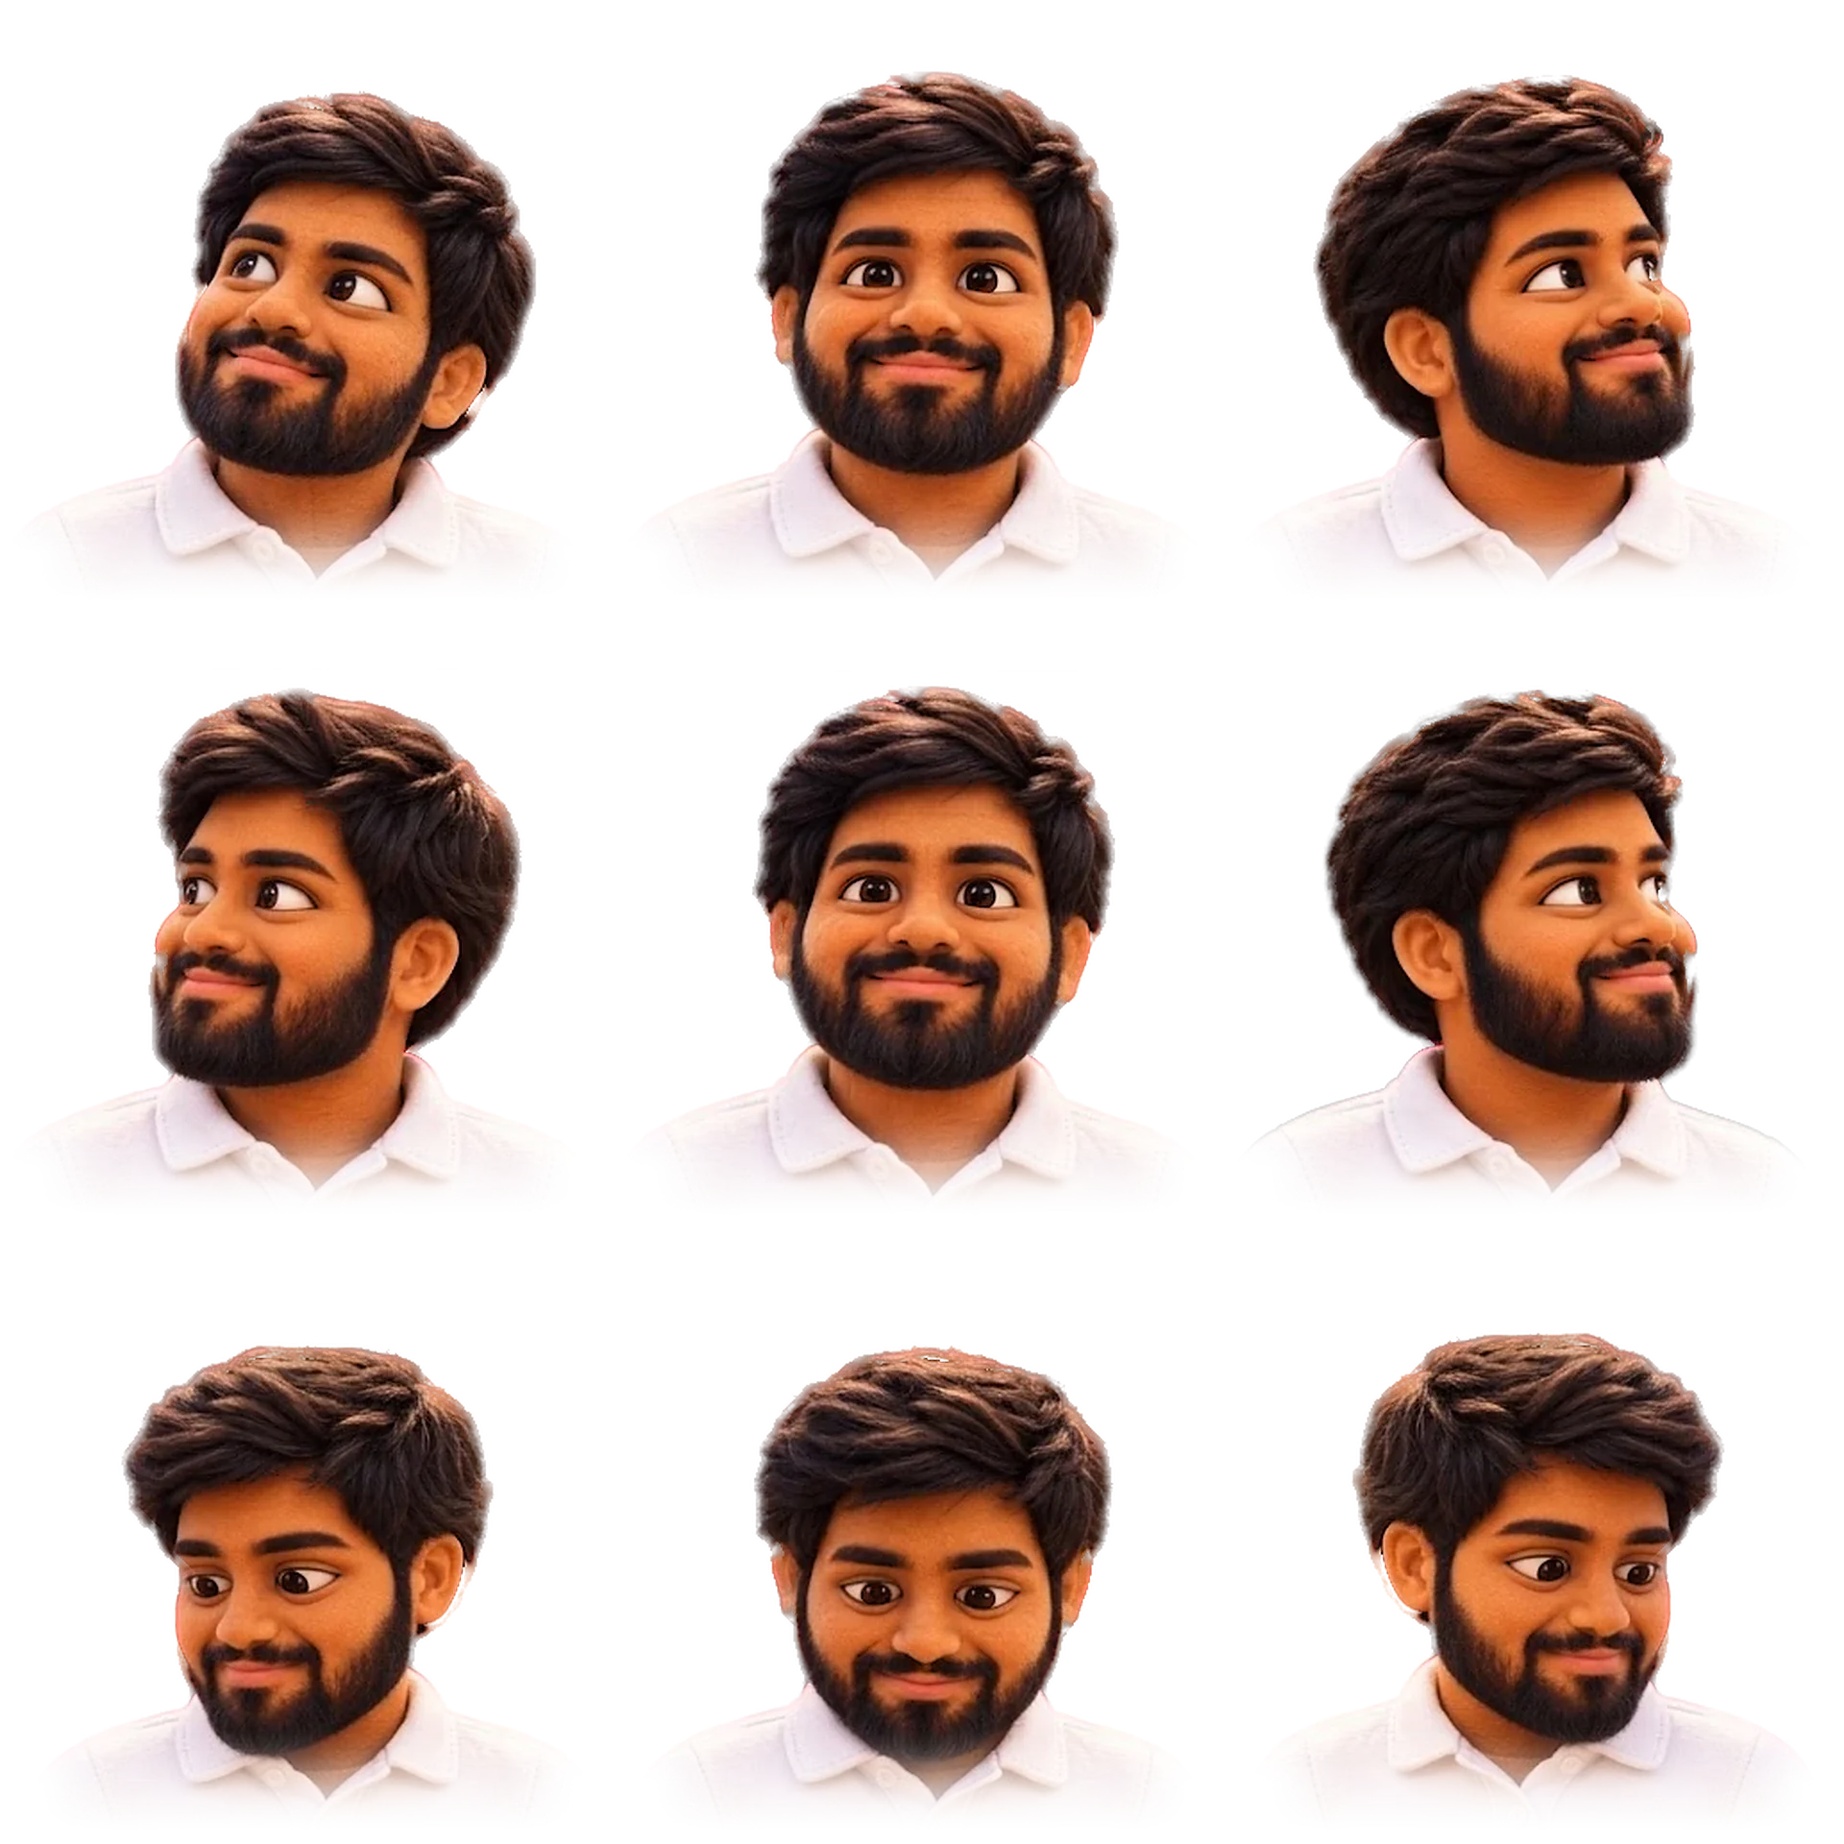
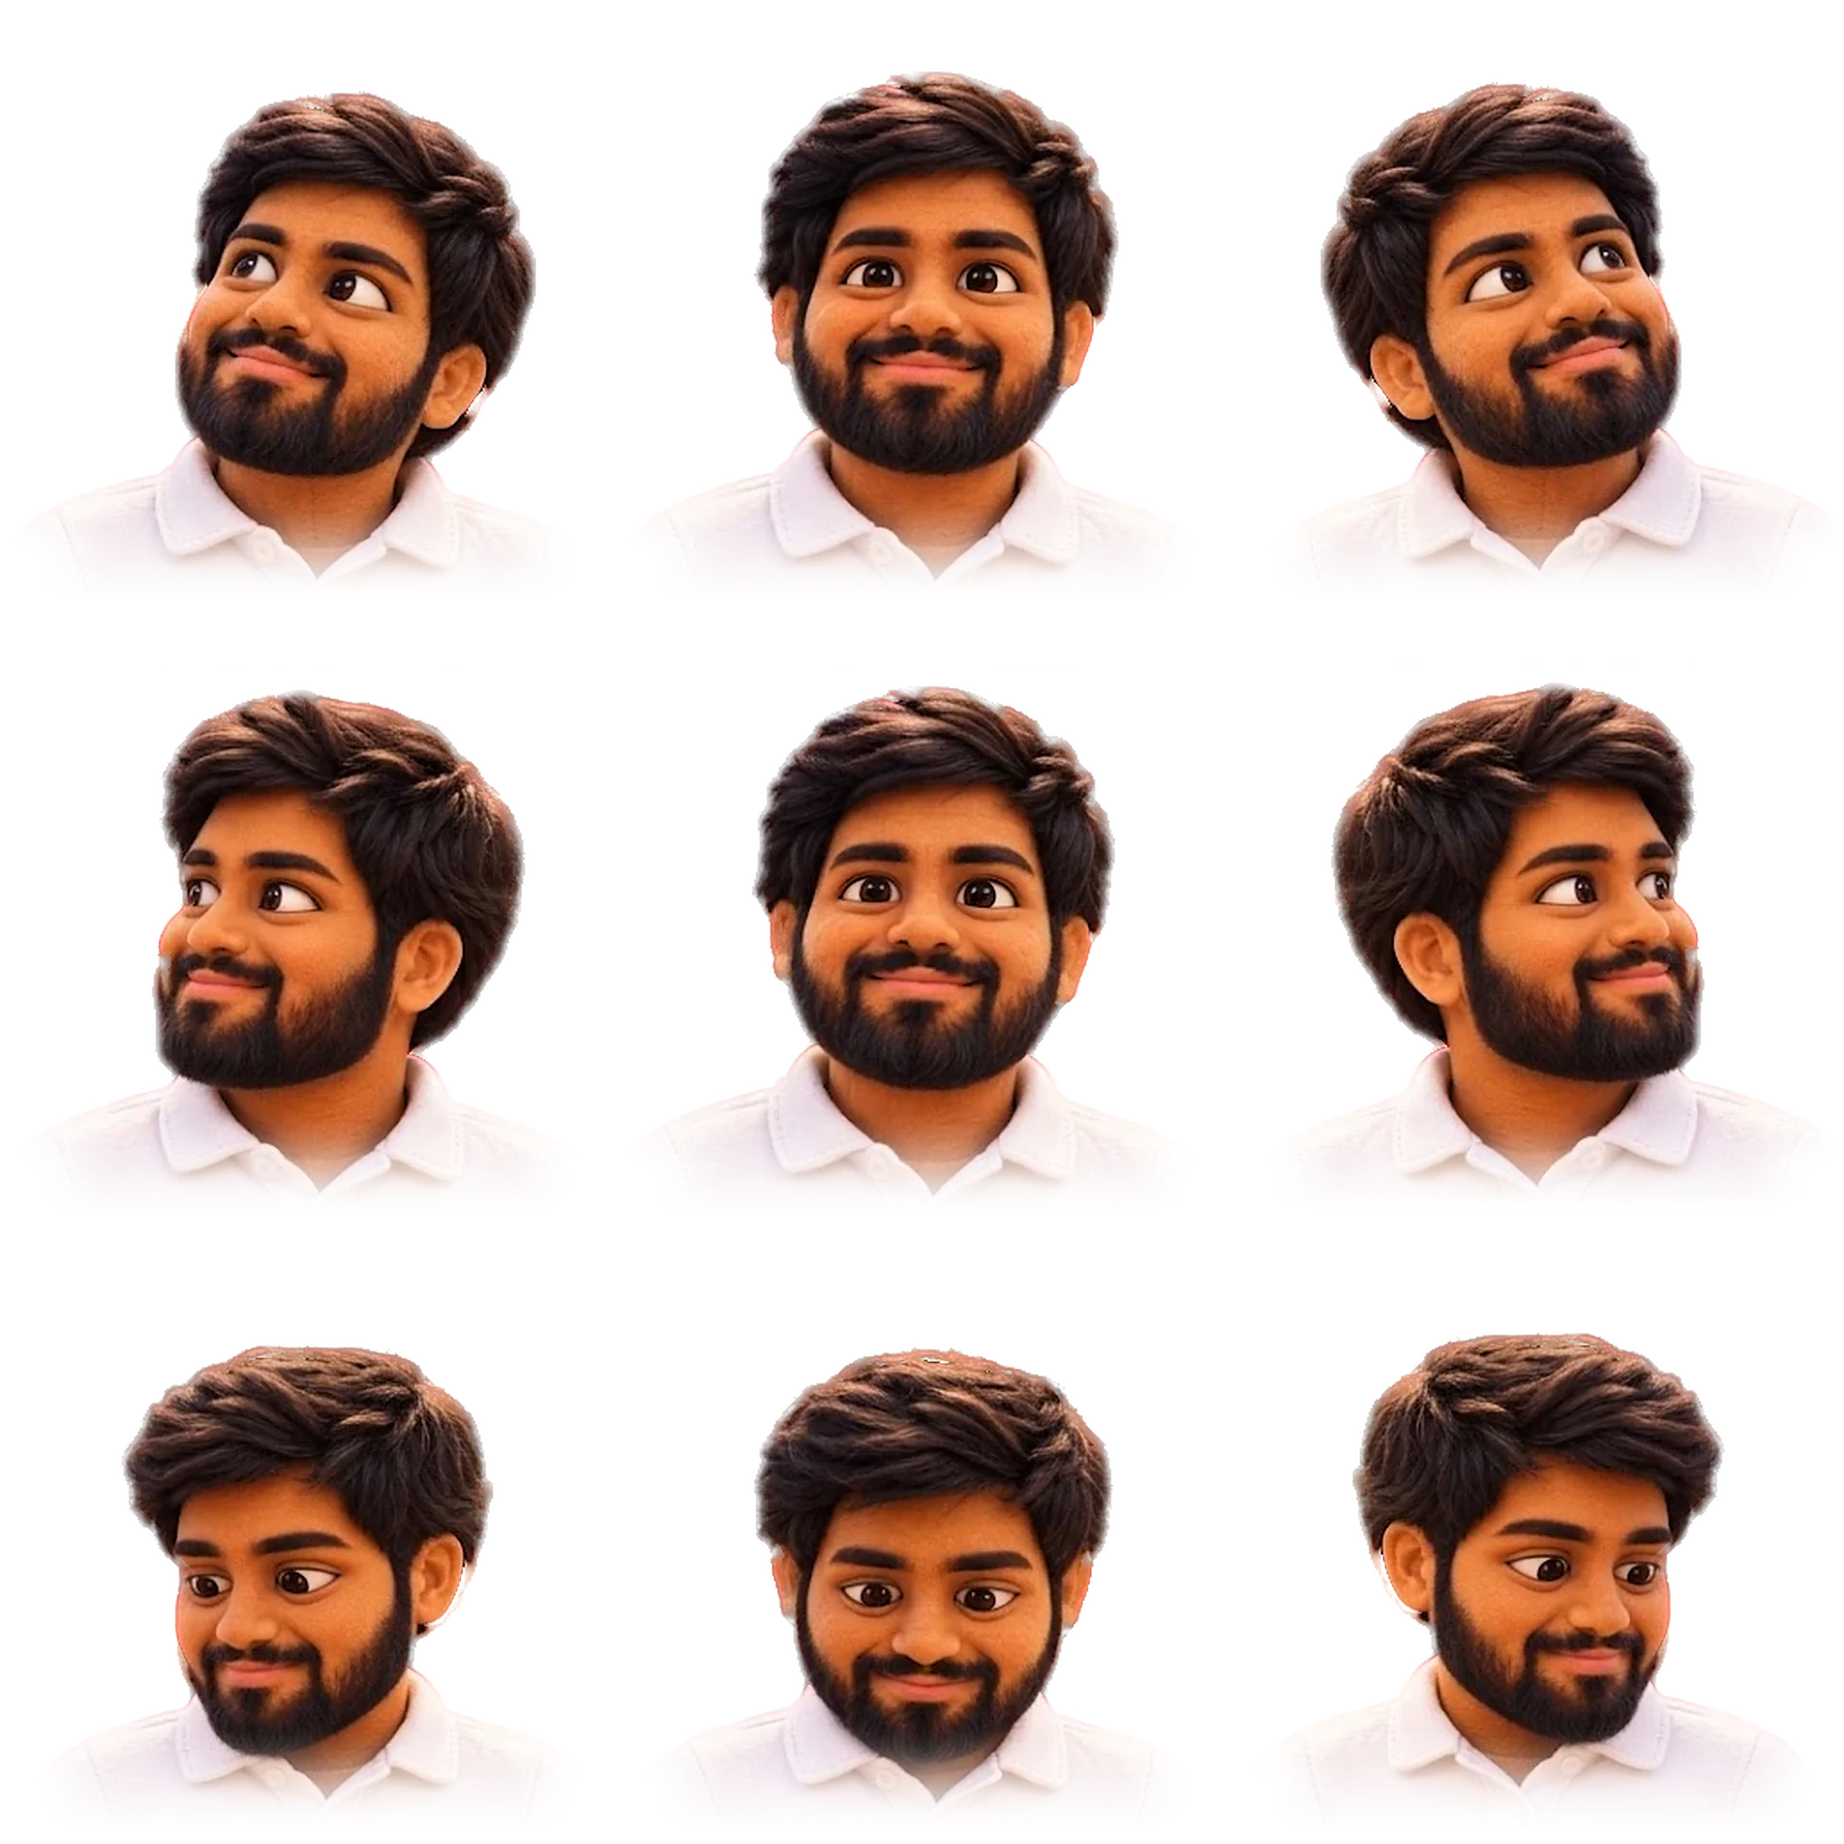
Fix defects found by the adversarial review
- Character: the right and up-right cells of the source sheet draw a second
  nose tip; they are now mirrored from the clean left-facing cells (as
  down-right already was). Registration compares only the collar band that
  stays visible, so the body does not shift when the head turns.
- Header: the single-row scrolling layout now applies up to 860px (links
  wrapped out of the 64px bar between 701 and 779px); the current link is
  styled in .tn-cta too, and scrolled into view on phones.
- Anchored sections clear the header on narrow screens (scroll-margin-top).
- Case dialog: the Back bar stays above the figure caption; meta is 2x2 on
  tablets; the Next-case arrow no longer wraps alone.
- Phone menu scrolls when taller than the screen (landscape phones), and the
  hero logo no longer shows through it.
- Hero copy clears the nav on 501-620px-tall landscape windows.
- No dangling separators in the trust bar, Work label or hero eyebrow;
  certificate IDs no longer break mid-word; PET figure label fits its box.
- Census result line reworded to say only what the case text says.

Claude-Session: https://claude.ai/code/session_01U3ktaUj7Vw44q61qy9d3f5

diff --git a/index.html b/index.html
@@ -34,7 +34,7 @@
     --font-display:'Instrument Sans Variable','Helvetica Neue',Arial,sans-serif;
     --font-accent:'Instrument Serif',Georgia,serif;
   }
-  @media(max-width:860px){:root{--section-y:var(--s5)}}
+  @media(max-width:860px){:root{--section-y:var(--s5)}main section[id]{scroll-margin-top:64px}}
   /* Gold: #D4AF37 for fills and rules on light, and for text on #2C302E only (6.36:1).
      Gold text or glyphs on light surfaces use --accent #7A5F12. */
   *{margin:0;padding:0;box-sizing:border-box}
@@ -162,14 +162,14 @@
     font-size:.9375rem;font-weight:500;color:var(--dim);padding:8px 0;transition:color .25s;
   }
   .tn-links a:hover,.tn-cta a:hover,.tn-links a:focus-visible,.tn-cta a:focus-visible{color:var(--fg)}
-  .tn-links a.current{color:var(--accent)}
+  #topnav a.current{color:var(--accent)}
   #topnav a:focus-visible{outline:2px solid var(--accent);outline-offset:-2px;border-radius:3px}
   /* Over the charcoal hero the bar docks in the hero's colours, then turns light. */
   body:not(.past-hero) #topnav{background:rgba(44,48,46,.92);border-bottom-color:rgba(250,249,246,.16);color:#FAF9F6}
   body:not(.past-hero) #topnav .tn-links a,body:not(.past-hero) #topnav .tn-cta a{color:rgba(250,249,246,.78)}
   body:not(.past-hero) #topnav a:hover,body:not(.past-hero) #topnav a.current{color:#FAF9F6}
   body:not(.past-hero) #topnav a:focus-visible{outline-color:#D4AF37}
-  @media(max-width:700px){
+  @media(max-width:860px){
     .tn-name{display:none}
     .tn-nav{width:100%;gap:14px}
     /* Sections scroll sideways; Contact and CV stay pinned and visible. */
@@ -187,7 +187,7 @@
     font-size:.875rem;font-weight:500;letter-spacing:0;color:var(--dim);
   }
   .trustbar i{font-style:normal;color:var(--accent)}
-  @media(max-width:700px){.trustbar{gap:4px 16px}.trustbar i{display:none}}
+  @media(max-width:1010px){.trustbar{gap:4px 16px}.trustbar i{display:none}}
   .numbers{padding:0 var(--gutter) var(--section-y)}
   .numbers-grid{
     display:grid;grid-template-columns:repeat(4,1fr);gap:1px;
@@ -352,7 +352,7 @@
   #detail.open{transform:none}
   /* A full-width bar, so text never scrolls visibly behind the Back button. */
   .d-back{
-    position:sticky;top:0;z-index:2;display:flex;align-items:center;cursor:pointer;
+    position:sticky;top:0;z-index:5;display:flex;align-items:center;cursor:pointer;
     width:calc(100% + 12vw);min-height:56px;margin:0 -6vw 6vh;padding:0 6vw;
     background:#FFFFFF;border:0;border-bottom:1px solid var(--line);color:inherit;
   }
@@ -367,6 +367,7 @@
     background:var(--line);border:1px solid var(--line);margin-top:34px;
   }
   .d-meta div{background:#FFFFFF;padding:13px 21px}
+  @media(min-width:600px) and (max-width:900px){.d-meta{grid-template-columns:1fr 1fr}}
   .d-meta .micro{display:block;margin-bottom:6px}
   .d-meta b{font-weight:600;font-size:.95rem;line-height:1.4}
   .d-title{font-family:var(--font-display);font-weight:600;letter-spacing:-.02em;font-size:clamp(1.75rem,4.4vw,3.4375rem);line-height:1.06}
@@ -390,7 +391,7 @@
     font-size:clamp(1.5rem,3.6vw,2.125rem);line-height:1.1;display:inline-block;
     transition:color .3s ease,transform .35s ease;
   }
-  .d-next-title::after{content:" →";color:var(--accent)}
+  .d-next-title::after{content:"\00a0→";color:var(--accent)}
   .d-next:hover .d-next-title{color:var(--accent);transform:translateX(12px)}
   .d-metrics{display:grid;grid-template-columns:1fr 1fr;gap:1px;background:var(--line);border:1px solid var(--line)}
   .d-metrics div{background:#FFFFFF;padding:21px;transition:background .3s ease,transform .3s ease}
@@ -505,7 +506,7 @@
   .cert-card.open .cert-body{visibility:visible;transition-delay:0s}
   .cert-skills{display:flex;flex-wrap:wrap;gap:8px;margin:13px 0}
   .cert-skills span{border:1px solid var(--gold);border-radius:999px;padding:5px 13px;font-size:.74rem;color:var(--fg)}
-  .cert-id{font-size:.72rem;color:var(--dim);font-weight:300;word-break:break-all;margin-bottom:13px}
+  .cert-id{font-size:.72rem;color:var(--dim);font-weight:300;word-break:normal;overflow-wrap:anywhere;margin-bottom:13px}
   .cert-actions{display:flex;gap:8px;flex-wrap:wrap;padding-bottom:2px}
   .btn-mini{
     display:inline-block;border-radius:999px;padding:8px 16px;
@@ -669,7 +670,7 @@
 <section class="work" id="work">
   <div class="sec-head">
     <h2 class="sec-title">Selected work</h2>
-    <span class="micro">MSc projects · University of Strathclyde · 2026</span>
+    <span class="micro">MSc projects&nbsp;· University of Strathclyde&nbsp;· 2026</span>
   </div>
   <div class="work-grid">
   <div class="proj-list" id="proj-list">
@@ -693,7 +694,7 @@
       <div class="proj-main">
         <h3 class="proj-name"><button type="button" class="proj-open" aria-haspopup="dialog">Census Digital Inclusion</button></h3>
         <p class="proj-desc">Built a multi-criteria weighted scoring model across 328 local authorities, segmenting digital barriers by cause to prioritise public sector investment.</p>
-        <p class="proj-result">Result: a stable shortlist of the 55 highest-risk of 328 authorities, holding across four weighting profiles.</p>
+        <p class="proj-result">Result: the 55 highest-risk of 328 authorities prioritised; the ranking was sensitivity-tested across four weighting profiles.</p>
       </div>
       <div class="proj-kind micro">Strategic Modelling · Public Sector</div>
     </div>
@@ -1219,10 +1220,10 @@ const ILLUS = {
       <path d="M-5 -6 L6 0 L-5 6" transform="translate(109 170) rotate(252)"/>
       <path d="M-5 -6 L6 0 L-5 6" transform="translate(144 62) rotate(324)"/>
     </g>
-    <line x1="268" y1="222" x2="282" y2="226" stroke="#7A5F12" stroke-width="1.5"/>
-    <rect x="282" y="206" width="94" height="40" rx="4" fill="#FFFFFF" stroke="#7A5F12"/>
-    <text x="329" y="222" text-anchor="middle" fill="rgba(44,48,46,.75)" font-size="7.5" letter-spacing="1.5">TRANSPORT HOTSPOT</text>
-    <text x="329" y="238" text-anchor="middle" fill="#7A5F12" font-size="11" font-weight="700">4.45 KG CO₂E</text>
+    <line x1="268" y1="222" x2="280" y2="226" stroke="#7A5F12" stroke-width="1.5"/>
+    <rect x="280" y="206" width="114" height="40" rx="4" fill="#FFFFFF" stroke="#7A5F12"/>
+    <text x="337" y="222" text-anchor="middle" fill="rgba(44,48,46,.75)" font-size="7.5" letter-spacing="1.5">TRANSPORT HOTSPOT</text>
+    <text x="337" y="238" text-anchor="middle" fill="#7A5F12" font-size="11" font-weight="700">4.45 KG CO₂E</text>
   </svg>`,
   soda: `<svg viewBox="0 0 400 300" xmlns="http://www.w3.org/2000/svg" font-family="Helvetica Neue,Arial">
     <g stroke="rgba(44,48,46,.22)" stroke-width="1.5">
@@ -1687,6 +1688,12 @@ document.querySelectorAll('.cert-card').forEach(card => {
       const on = a.getAttribute('href') === active;
       a.classList.toggle('current', on);
       if (on) a.setAttribute('aria-current', 'true'); else a.removeAttribute('aria-current');
+      /* On phones the section links scroll sideways: keep the current one in view. */
+      const strip = a.parentElement;
+      if (on && strip && strip.classList.contains('tn-links') && strip.scrollWidth > strip.clientWidth) {
+        const left = a.offsetLeft - strip.offsetLeft - 16;
+        if (Math.abs(strip.scrollLeft - left) > 4) strip.scrollLeft = left;
+      }
     });
   });
 })();

diff --git a/src/components/Navbar.tsx b/src/components/Navbar.tsx
@@ -41,7 +41,7 @@ export default function Navbar() {
         aria-label="Primary"
         className="absolute left-0 top-0 z-10 flex h-16 w-full items-center justify-between px-[var(--gutter)] py-0 sm:h-20"
       >
-        <a href="#top" onClick={go} className="flex items-center gap-3 text-canvas no-underline">
+        <a href="#top" onClick={go} className={`flex items-center gap-3 text-canvas no-underline ${open ? 'invisible' : ''}`}>
           <span className="text-[20px] font-semibold tracking-tight sm:text-[23px]">{NAME}</span>
           <span aria-hidden="true" className="select-none text-[22px] sm:text-[26px]" style={{ letterSpacing: '-0.02em' }}>
             ✳
@@ -97,7 +97,7 @@ export default function Navbar() {
         aria-hidden={!open}
         // inert keeps hidden links out of the tab order and away from screen readers
         {...(!open ? { inert: '' } : {})}
-        className="fixed inset-0 z-[9] flex flex-col justify-center gap-6 bg-canvas px-8 transition-opacity duration-300 md:hidden"
+        className="fixed inset-0 z-[9] flex flex-col justify-[safe_center] gap-6 overflow-y-auto bg-canvas px-8 pb-6 pt-[72px] transition-opacity duration-300 md:hidden"
         style={{ opacity: open ? 1 : 0, pointerEvents: open ? 'auto' : 'none' }}
       >
         <ul className="m-0 flex list-none flex-col gap-5 p-0">

diff --git a/src/index.css b/src/index.css
@@ -69,6 +69,11 @@
 .hero-h1 { font-size: clamp(2.2rem, 4.6vw, 4rem); }
 .hero-lede { font-size: clamp(1.05rem, 1.6vw, 1.3rem); }
 
+/* Landscape: keep the centred copy clear of the 80px hero nav on shorter windows. */
+@media (min-aspect-ratio: 1/1) and (min-height: 501px) {
+  .hero-content { padding-top: 80px; }
+}
+
 /* Phones on their side: too short for the stacked layout, so shrink everything. */
 @media (min-aspect-ratio: 1/1) and (max-height: 500px) {
   .hero-section { height: auto; min-height: 100svh; }

diff --git a/src/content.ts b/src/content.ts
@@ -21,7 +21,7 @@ export const NAV_LINKS: Link[] = [
   { label: 'Contact', href: '#contact' },
 ]
 
-export const EYEBROW = 'Business Analyst · Glasgow, UK'
+export const EYEBROW = 'Business Analyst\u00a0· Glasgow, UK' // no-break space: the dot never ends a line
 // Worded as on the certificate card in index.html.
 export const CREDENTIAL = 'Microsoft Certified: Power BI Data Analyst Associate (PL-300)'
 export const POSITIONING =

diff --git a/tools/build-mascot.py b/tools/build-mascot.py
@@ -8,7 +8,7 @@ cell edges and one damaged cell, so the page-mascot skill's build cannot read th
 as they are. This script:
 
   1. crops each cell along the measured seams,
-  2. replaces the damaged down-right cell with the mirrored down-left one,
+  2. replaces the damaged right-facing cells with mirrors of their left-facing twins,
   3. keys out the red with a local-colour matte (the foreground colour next to each
      edge pixel is estimated from its neighbours and the alpha is solved against it),
      which keeps the red heart and the pink lips intact and removes red spill from hair,
@@ -164,20 +164,25 @@ def shirt_mask(t):
     return (a[..., 3] > 128) & (a[..., :3].min(-1) > 165)
 
 
-def register(moving, ref, search=24, margin=26):
+def register(moving, ref, search=24, margin=26, band=(0.2, 0.8)):
     """Translation that best lays `moving`'s shirt (collar and shoulders) on `ref`'s.
 
     Only an inner window is compared: the shirt is cut off at every cell's sides and
     bottom, and those cut lines sit at the same place in every cell whatever the body
-    does, so letting them vote would pull every answer towards zero.
+    does, so letting them vote would pull every answer towards zero. Horizontally the
+    window is the central band that stays visible once bust() fades the shoulders out:
+    the outer shoulders are drawn slightly differently from cell to cell (and a
+    mirrored cell's are the front's mirror image), so fitting them would shift the
+    collar, which is what the eye actually sees.
     """
     m, r = shirt_mask(moving), shirt_mask(ref)
     h, w = r.shape
+    lo, hi = max(margin, round(w * band[0])), min(w - margin, round(w * band[1]))
     best = (-1.0, 0, 0)
     for dy in range(-search, search + 1):
         for dx in range(-search, search + 1):
             y0, y1 = max(0, dy) + 0, min(h, m.shape[0] + dy)
-            x0, x1 = max(margin, dx), min(w - margin, m.shape[1] + dx) 
+            x0, x1 = max(lo, dx), min(hi, m.shape[1] + dx)
             y1 = min(y1, h - margin)
             if y1 - y0 < 40 or x1 - x0 < 40:
                 continue
@@ -316,8 +321,11 @@ if __name__ == '__main__':
     dpath, rpath = sys.argv[1], sys.argv[2]
     debug = sys.argv[sys.argv.index('--debug') + 1] if '--debug' in sys.argv else None
     dcells = cells(dpath, 'directions')
-    # Down-right is damaged (a smoke-like smear over the mouth); its mirror twin is clean.
-    dcells[8] = dcells[6].transpose(Image.FLIP_LEFT_RIGHT)
+    # The right-facing cells are damaged in the source sheet: down-right has a smoke-like
+    # smear over the mouth, and right and up-right draw a second, paler nose tip beyond
+    # the real one. Their left-facing twins are clean, so all three are mirrored from those.
+    for right, left in ((2, 0), (5, 3), (8, 6)):
+        dcells[right] = dcells[left].transpose(Image.FLIP_LEFT_RIGHT)
     rcells = cells(rpath, 'reactions')
     dk = [key(c) for c in dcells]
     rk = [key(c) for c in rcells]
